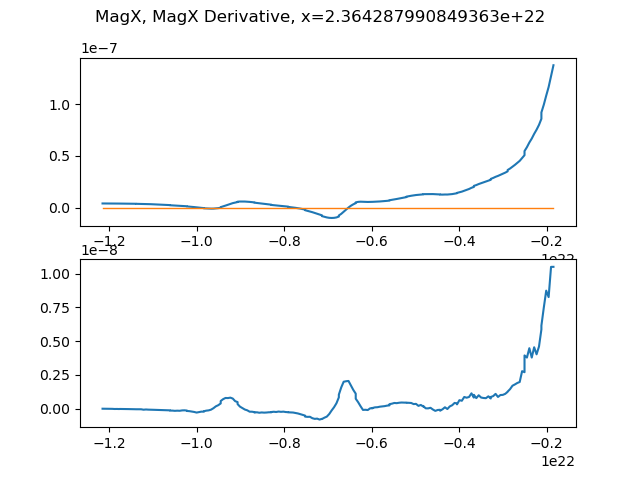
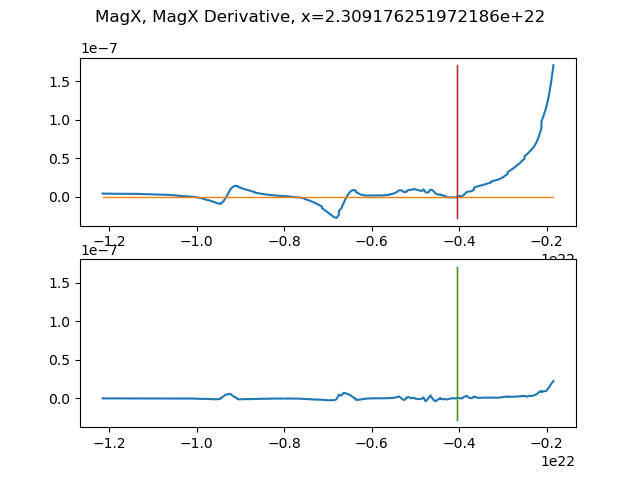
troubleshooting 1D plots. No success.

diff --git a/BubbleVelocity_SignFlip.py b/BubbleVelocity_SignFlip.py
@@ -153,7 +153,7 @@ for t in range(65, 85):
     untrimmed.append([zeroIndex, magDerivative[zeroIndex]])
     trimmed.append([zeroIndexTrimmed, magDerivative[zeroIndexTrimmed]])
     
-    ## Make a line plot
+    # # Make a line plot
     # fig, ax = plt.subplots(2)
     # fig.suptitle('Zero intercepts, t='+ str(t) +', x='+str(x))
     # ax[0].plot(ySlice, magSlice)
@@ -423,7 +423,35 @@ slc.save(pwd + "/bubble_velocity_2D/line_annotations")
 slc.display()
 
 #%%
+#rebuild the lineplot code
+out = hdf5_parser.setup(filename)
+x = est.closestNum(out['posXarray'], 2.32838*pow(10, 22) - (5*dx)) #2.320198554 is good for col 12
+plt.clf()
 
+# TFselect = np.logical_and((out['posXarray'] == x), (out['posYarray']<ylim))
+# ySlice = out['posYarray'][TFselect]    
+TFselect = np.logical_and((out['posXarray'] == x), (out['posYarray']<ylim), (out['posYarray']>ymin))
+ySlice = out['posYarray'][TFselect] #this is in order
+magSlice = out['magXarray'][TFselect]
+# zeroIndex = est.findSignFlips(magSlice)
+# magDerivative = np.diff(magSlice, axis=0)
+# magDerivative = np.insert(magDerivative, 0, 0)
+
+# zeroIndexTrimmed = []
+# for index in zeroIndex:
+#     avgSlope = 0.5*(out['magXarray'][index-1]-out['magXarray'][index+1])
+#     if avgSlope > 5*(10**-11): zeroIndexTrimmed = np.append(zeroIndexTrimmed, index)
+# zeroIndexTrimmed = np.asarray(zeroIndexTrimmed, dtype=int)
+
+ySlice.sort()
+plt.plot(ySlice, magSlice)
+plt.plot([max(ySlice), min(ySlice)], [0, 0], lw=1)
+# plt.plot([max(ySlice), min(ySlice)], [0, 0], lw=1) #zero line
+# for y in ySlice[zeroIndexTrimmed]:
+#     plt.plot([y, y], [np.min(magSlice), np.max(magSlice)], lw=1) #lines [x1, x2] [y1, y2]
+#     plt.plot([y, y], [np.min(magSlice), np.max(magSlice)], lw=1)
+# plt.show()    
+plt.savefig(pwd + "/bubble_velocity/SliceA")
 #%%
 ### Try a detection little left or right
 # lev = np.logspace(np.log10(out['densityArray'].min()), np.log10(out['densityArray'].max()), num=1000)
